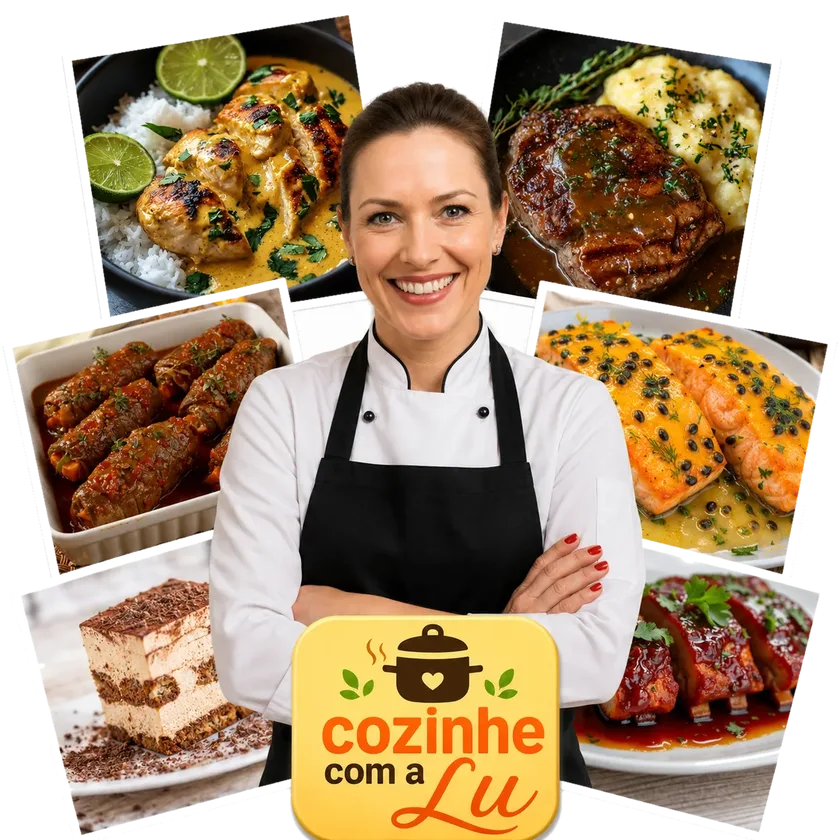
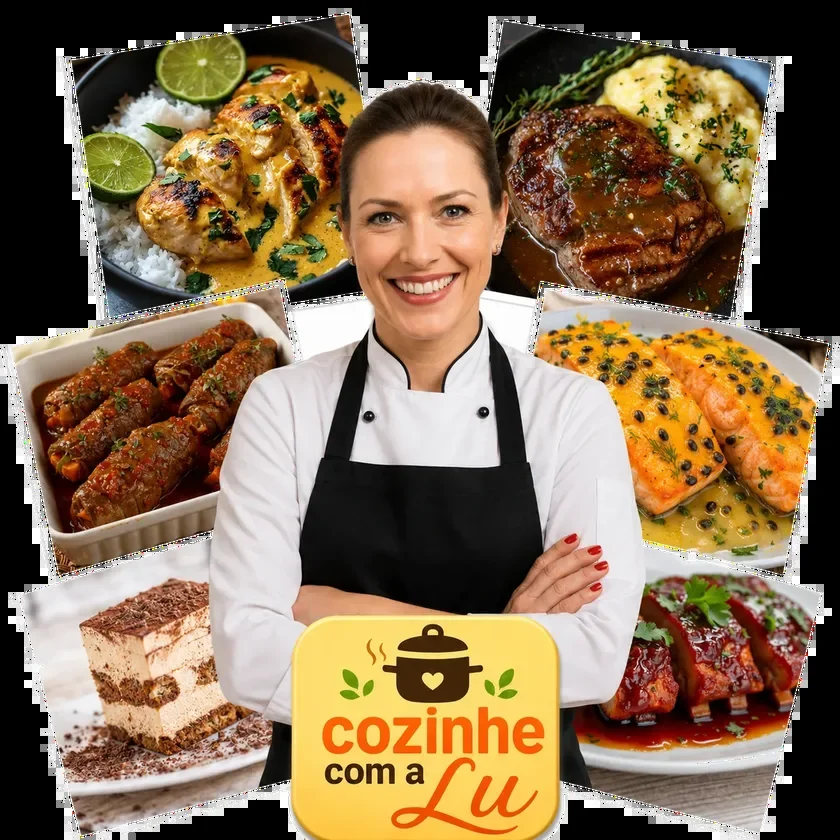
fix: corrigir hero - restaurar CTA inline e adicionar fallback JPG
- CTA: restaurar estilos inline no botão (class="cta" não estava
  sendo aplicada corretamente no contexto do hero)
- Imagem hero: converter WebP de RGBA para RGB (sem canal alfa),
  adicionar hero.jpg como fallback via <picture>, e preload aponta
  para o JPG garantindo carregamento mesmo sem suporte WebP

Claude-Session: https://claude.ai/code/session_01CeGpjLkgfJbPdzSH6SqPbs

Changed region(s): [[0.0, 0.0, 1.0, 1.0], [0.7738, 0.619, 0.8976, 0.681]]

diff --git a/index.html b/index.html
@@ -10,7 +10,7 @@
 <link rel="dns-prefetch" href="https://connect.facebook.net" />
 <link rel="preconnect" href="https://fonts.googleapis.com" />
 <link rel="preconnect" href="https://fonts.gstatic.com" crossorigin />
-<link rel="preload" as="image" href="images/hero.webp" />
+<link rel="preload" as="image" href="images/hero.jpg" type="image/jpeg" />
 <link href="https://fonts.googleapis.com/css2?family=Playfair+Display:wght@700;900&family=Plus+Jakarta+Sans:wght@400;500;600;700;800&display=swap" rel="stylesheet" />
 <style>
 :root{
@@ -248,9 +248,12 @@ src="https://www.facebook.com/tr?id=1065374819648474&ev=PageView&noscript=1"
 <section class=”hero” style=”text-align:center”>
   <h1>Resolva a pergunta mais difícil do dia: &ldquo;O que vou cozinhar hoje?&rdquo;</h1>
   <p style=”font-size:16px;font-weight:600;line-height:1.6;color:#555;margin-top:14px”>+200 receitas no APP + 13 PDFs para download.<br>Pronto em 20 min, sem estresse e sem repeti&ccedil;&atilde;o.</p>
-  <a href=”#planos” class=”cta” style=”margin-top:20px”>Quero minhas receitas agora</a>
+  <a href=”#planos” style=”display:block;background:linear-gradient(160deg,#2A8A45,#1E6B35);color:#fff;text-decoration:none;text-align:center;padding:20px 16px;border-radius:16px;font-size:17px;font-weight:800;letter-spacing:.8px;text-transform:uppercase;box-shadow:0 6px 24px rgba(30,107,53,.38);margin-top:20px;min-height:44px”>Quero minhas receitas agora</a>
   <p style=”font-size:13px;font-weight:600;color:#6B7280;margin-top:12px”><strong style=”color:#5A3522”>+17.800 pessoas</strong> j&aacute; resolveram o jantar em poucos minutos.</p>
-  <img style=”width:100%;height:auto;border-radius:24px;margin-top:20px” src=”images/hero.webp” alt=”Cozinhe com a Lu” width=”840” height=”840” fetchpriority=”high” decoding=”async” />
+  <picture>
+    <source srcset=”images/hero.webp” type=”image/webp” />
+    <img style=”width:100%;height:auto;border-radius:24px;margin-top:20px” src=”images/hero.jpg” alt=”Cozinhe com a Lu” width=”840” height=”840” fetchpriority=”high” decoding=”async” />
+  </picture>
   <div style=”display:grid;grid-template-columns:1fr 1fr;gap:8px;margin-top:20px”>
     <div style=”background:linear-gradient(135deg,#2A8A45,#1E6B35);border-radius:14px;padding:13px 8px;font-size:13px;font-weight:700;line-height:1.2;color:#fff;box-shadow:0 4px 14px rgba(30,107,53,.28)”>+200 Receitas</div>
     <div style=”background:linear-gradient(135deg,#2A8A45,#1E6B35);border-radius:14px;padding:13px 8px;font-size:13px;font-weight:700;line-height:1.2;color:#fff;box-shadow:0 4px 14px rgba(30,107,53,.28)”>Pronto em 20 min</div>
